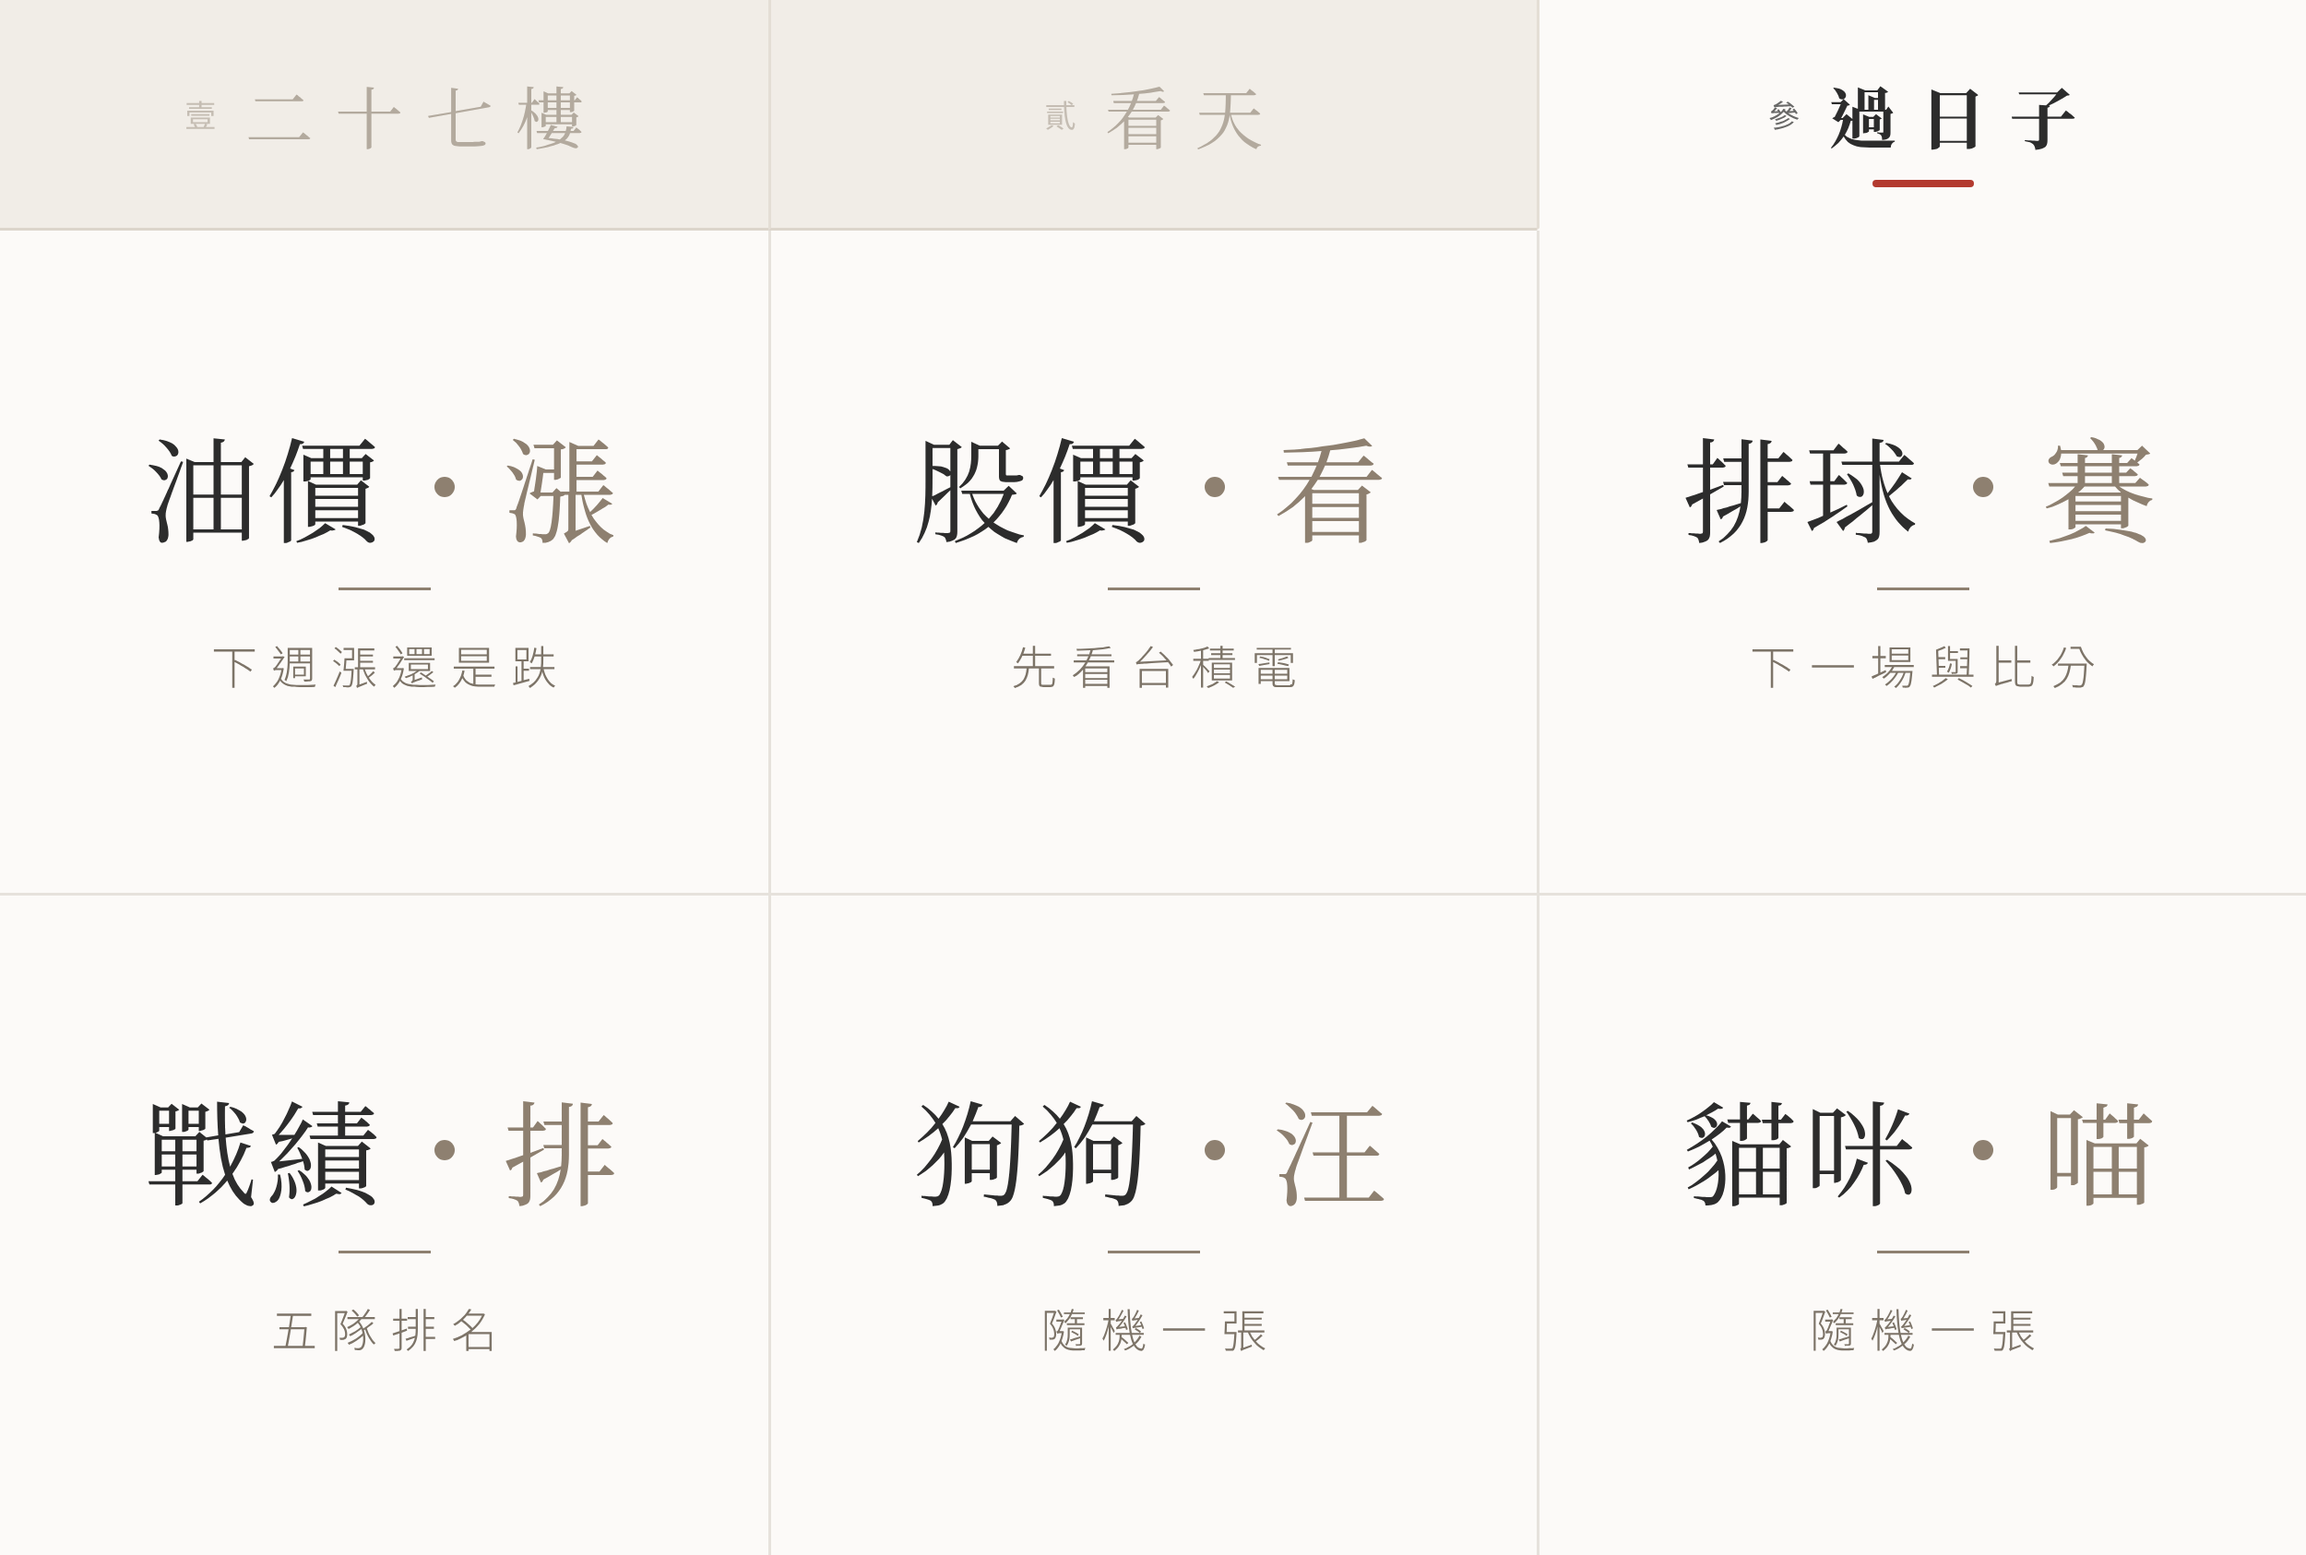
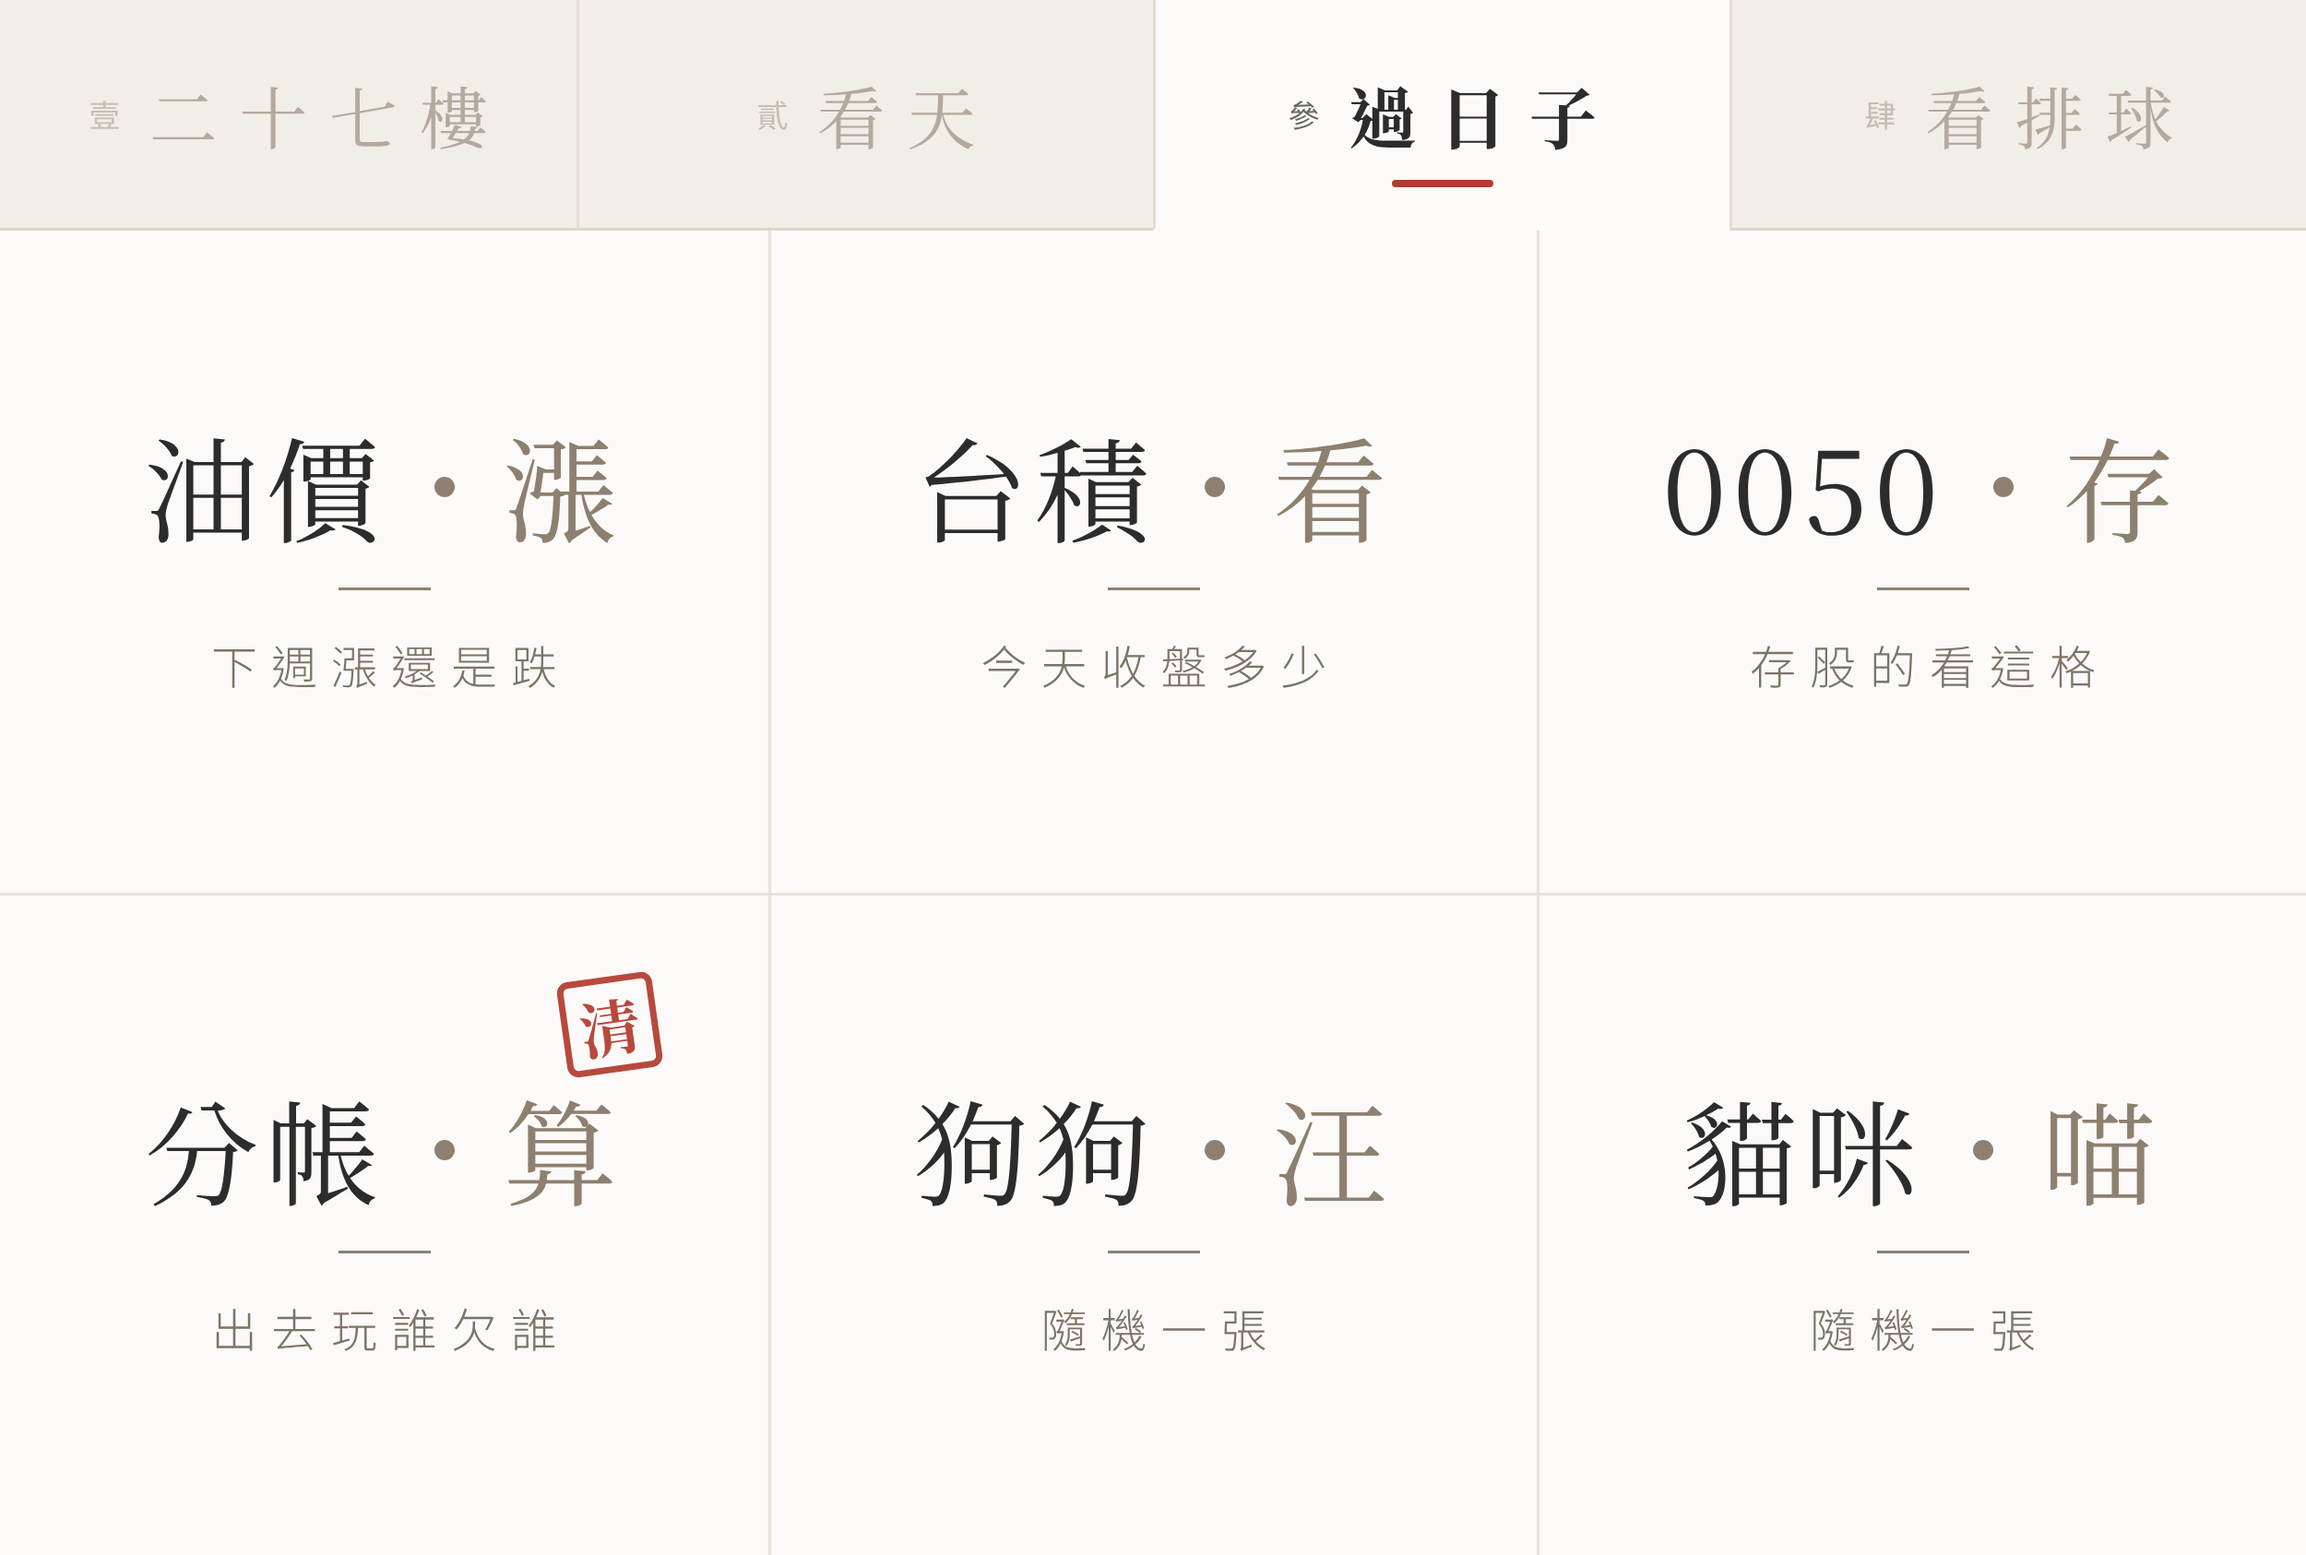
line bot: rich menu gets a 4th tab (volleyball); life tab now has 0050 and split
Claude-Session: https://claude.ai/code/session_01DfELKGAuUeHGLNNJha5AAX

diff --git a/line-bot/richmenu-tabs.js b/line-bot/richmenu-tabs.js
@@ -1,9 +1,9 @@
-// 產生三張分頁圖文選單的圖（richmenu-27/sky/life.png）。要 Node 和 Playwright：node line-bot/richmenu-tabs.js line-bot
+// 產生四張分頁圖文選單的圖（richmenu-27/sky/life/volley.png）。要 Node 和 Playwright：node line-bot/richmenu-tabs.js line-bot
 // 格子內容在 richmenu-tabs.json，改了要跟 Code.gs 的 RICH_MENUS 一起改，再把 RICH_MENU_VERSION 加一、執行 setupRichMenus()。
 const { chromium } = require('playwright'); const fs = require('fs');
 const menus = JSON.parse(fs.readFileSync(__dirname + '/richmenu-tabs.json', 'utf8'));
 const OUT = process.argv[2] || __dirname;
-const W = 2500, H = 1686, TAB = 250, COLW = [833, 833, 834], ROWH = (H - TAB) / 2;
+const W = 2500, H = 1686, TAB = 250, COLW = [833, 833, 834], TABW = [625, 625, 625, 625], ROWH = (H - TAB) / 2;
 const css = `
 @font-face{font-family:S;font-weight:400;src:local('Noto Serif CJK TC')}
 @font-face{font-family:S;font-weight:700;src:local('Noto Serif CJK TC Bold')}
@@ -30,7 +30,7 @@ body{width:${W}px;height:${H}px;background:#fcfaf8;font-family:S;color:#2c2c2c;o
 .stamp{position:absolute;right:120px;top:88px;width:104px;height:104px;border:7px solid #b33a2f;border-radius:12px;color:#b33a2f;font-weight:700;font-size:66px;display:flex;align-items:center;justify-content:center;transform:rotate(-8deg);opacity:.92}
 `;
 const html = (m, ti) => `<!doctype html><meta charset=utf-8><style>${css}</style>
-<div class=tabs>${menus.map((x, i) => `<div class="tab${i === ti ? ' on' : ''}" style="width:${COLW[i]}px"><span class=n>${'壹貳參'[i]}</span>${x.tab}</div>`).join('')}</div>
+<div class=tabs>${menus.map((x, i) => `<div class="tab${i === ti ? ' on' : ''}" style="width:${TABW[i]}px"><span class=n>${'壹貳參肆'[i]}</span>${x.tab}</div>`).join('')}</div>
 <div class=grid>${m.items.map(it => `<div class=cell>${it.stamp ? `<div class=stamp>${it.stamp}</div>` : ''}<div class=ttl>${it.t}<span class=dot></span><span class=k>${it.k}</span></div><div class=rule></div><div class=sub>${it.s}</div></div>`).join('')}</div>`;
 (async () => {
   const b = await chromium.launch(); const p = await b.newPage({ viewport: { width: W, height: H }, deviceScaleFactor: 1 });

diff --git a/CLAUDE.md b/CLAUDE.md
@@ -118,7 +118,7 @@
 - 指令碼屬性：`LINE_CHANNEL_ACCESS_TOKEN`、`SHEET_ID`、`WEBHOOK_KEY`（webhook 網址要帶 `?key=`，對不上或沒設定就不處理）。
 - 擲杯的三聖杯存在 `CacheService`，key 是 `streak:` + groupId／roomId／userId，6 小時。
 - **台詞跟網站同步**：擲杯台詞（`jiaobei.html` 的 `RESULTS`）、御神籤（`index.html` 的 `FORTUNES`）改了，`line-bot/Code.gs` 的 `JIAOBEI_LINES`、`FORTUNES` 也要改，並請使用者重新部署 bot 專案。
-- **圖文選單是三個分頁**（`Code.gs` 的 `RICH_MENUS`，用 Messaging API 建，不是在 Official Account Manager 手動設）：上面一排分頁（壹 二十七樓、貳 看天、參 過日子，高 250px，`richmenuswitch` 切換，分頁代號 `dbl-27`／`dbl-sky`／`dbl-life`），下面 3×2 六格（message 動作等於幫使用者打指令；訂房是網站網址；「遊戲・玩」是 `GAMES_URL` = 網站 LIFF 的 `member.html`，在 LINE 裡點開會自動用 LINE 登入、錢包跟著帳號。分帳不在選單上了，打「分帳」還是有）。圖是 `line-bot/richmenu-27/sky/life.png`（2500×1686），由 `line-bot/richmenu-tabs.js` 照 `richmenu-tabs.json` 產生；**`richmenu-tabs.json` 和 `RICH_MENUS` 要手動保持一致**，改了要把 `RICH_MENU_VERSION` 加一，請使用者在編輯器執行 `setupRichMenus()`（先驗證全部、先抓好圖才開始建，建好換分頁代號、設預設、刪掉舊的 `dbl-*`）；`removeRichMenus()` 回到 Official Account Manager 的舊選單（`line-bot/richmenu.png`）。點分頁 LINE 會送 postback，`doPost` 不處理 postback，所以不會回話。群組裡看不到圖文選單。新增指令想放進選單，要換掉某一格。
+- **圖文選單是四個分頁**（`Code.gs` 的 `RICH_MENUS`，用 Messaging API 建，不是在 Official Account Manager 手動設）：上面一排分頁（壹 二十七樓、貳 看天、參 過日子、肆 看排球，高 250px、每個寬 625px（`RM_TABS`），`richmenuswitch` 切換，分頁代號 `dbl-27`／`dbl-sky`／`dbl-life`／`dbl-volley`），下面 3×2 六格（`RM_COLS`；message 動作等於幫使用者打指令；訂房是網站網址；「遊戲・玩」是 `GAMES_URL` = 網站 LIFF 的 `member.html`，在 LINE 裡點開會自動用 LINE 登入、錢包跟著帳號）。過日子：油價、台積電（`股 2330`）、0050、分帳（直接開 `SPLIT_URL`）、狗、貓；看排球：比分、戰績、得分王、攔網、攻擊、發球（接發、防守、舉球、球員要自己打）。圖是 `line-bot/richmenu-27/sky/life/volley.png`（2500×1686），由 `line-bot/richmenu-tabs.js` 照 `richmenu-tabs.json` 產生；**`richmenu-tabs.json` 和 `RICH_MENUS` 要手動保持一致**，改了要把 `RICH_MENU_VERSION` 加一，請使用者在編輯器執行 `setupRichMenus()`（先驗證全部、先抓好圖才開始建，建好換分頁代號、設預設、刪掉舊的 `dbl-*`）；`removeRichMenus()` 回到 Official Account Manager 的舊選單（`line-bot/richmenu.png`）。點分頁 LINE 會送 postback，`doPost` 不處理 postback，所以不會回話。群組裡看不到圖文選單。新增指令想放進選單，要換掉某一格。
 
 ## 設計規範
 

diff --git a/line-bot/README.md b/line-bot/README.md
@@ -9,7 +9,7 @@
 | 檔案 | 用途 |
 | --- | --- |
 | `Code.gs` | bot 程式，貼到新的 Apps Script 專案 |
-| `richmenu-27.png`、`richmenu-sky.png`、`richmenu-life.png` | 三個分頁的圖文選單（2500×1686，上面一排分頁、下面 3×2 六格），`setupRichMenus()` 會從網站抓 |
+| `richmenu-27.png`、`richmenu-sky.png`、`richmenu-life.png`、`richmenu-volley.png` | 四個分頁的圖文選單（2500×1686，上面一排分頁、下面 3×2 六格），`setupRichMenus()` 會從網站抓 |
 | `richmenu-tabs.json`、`richmenu-tabs.js` | 每格寫什麼、產生上面三張圖的程式（Node＋Playwright） |
 | `richmenu.png` | 舊的單頁圖文選單（在 Official Account Manager 手動設定用，留著備用） |
 
@@ -64,7 +64,7 @@
 
 想先看月曆卡片長什麼樣子：編輯器上方選 `printAvailabilityFlex` 按「執行」，把執行記錄裡的 JSON 貼到 [Flex Message Simulator](https://developers.line.biz/flex-simulator/)。
 
-### 5. 圖文選單（三個分頁）
+### 5. 圖文選單（四個分頁）
 
 選單上面一排分頁，點了整張選單換成那一類：
 
